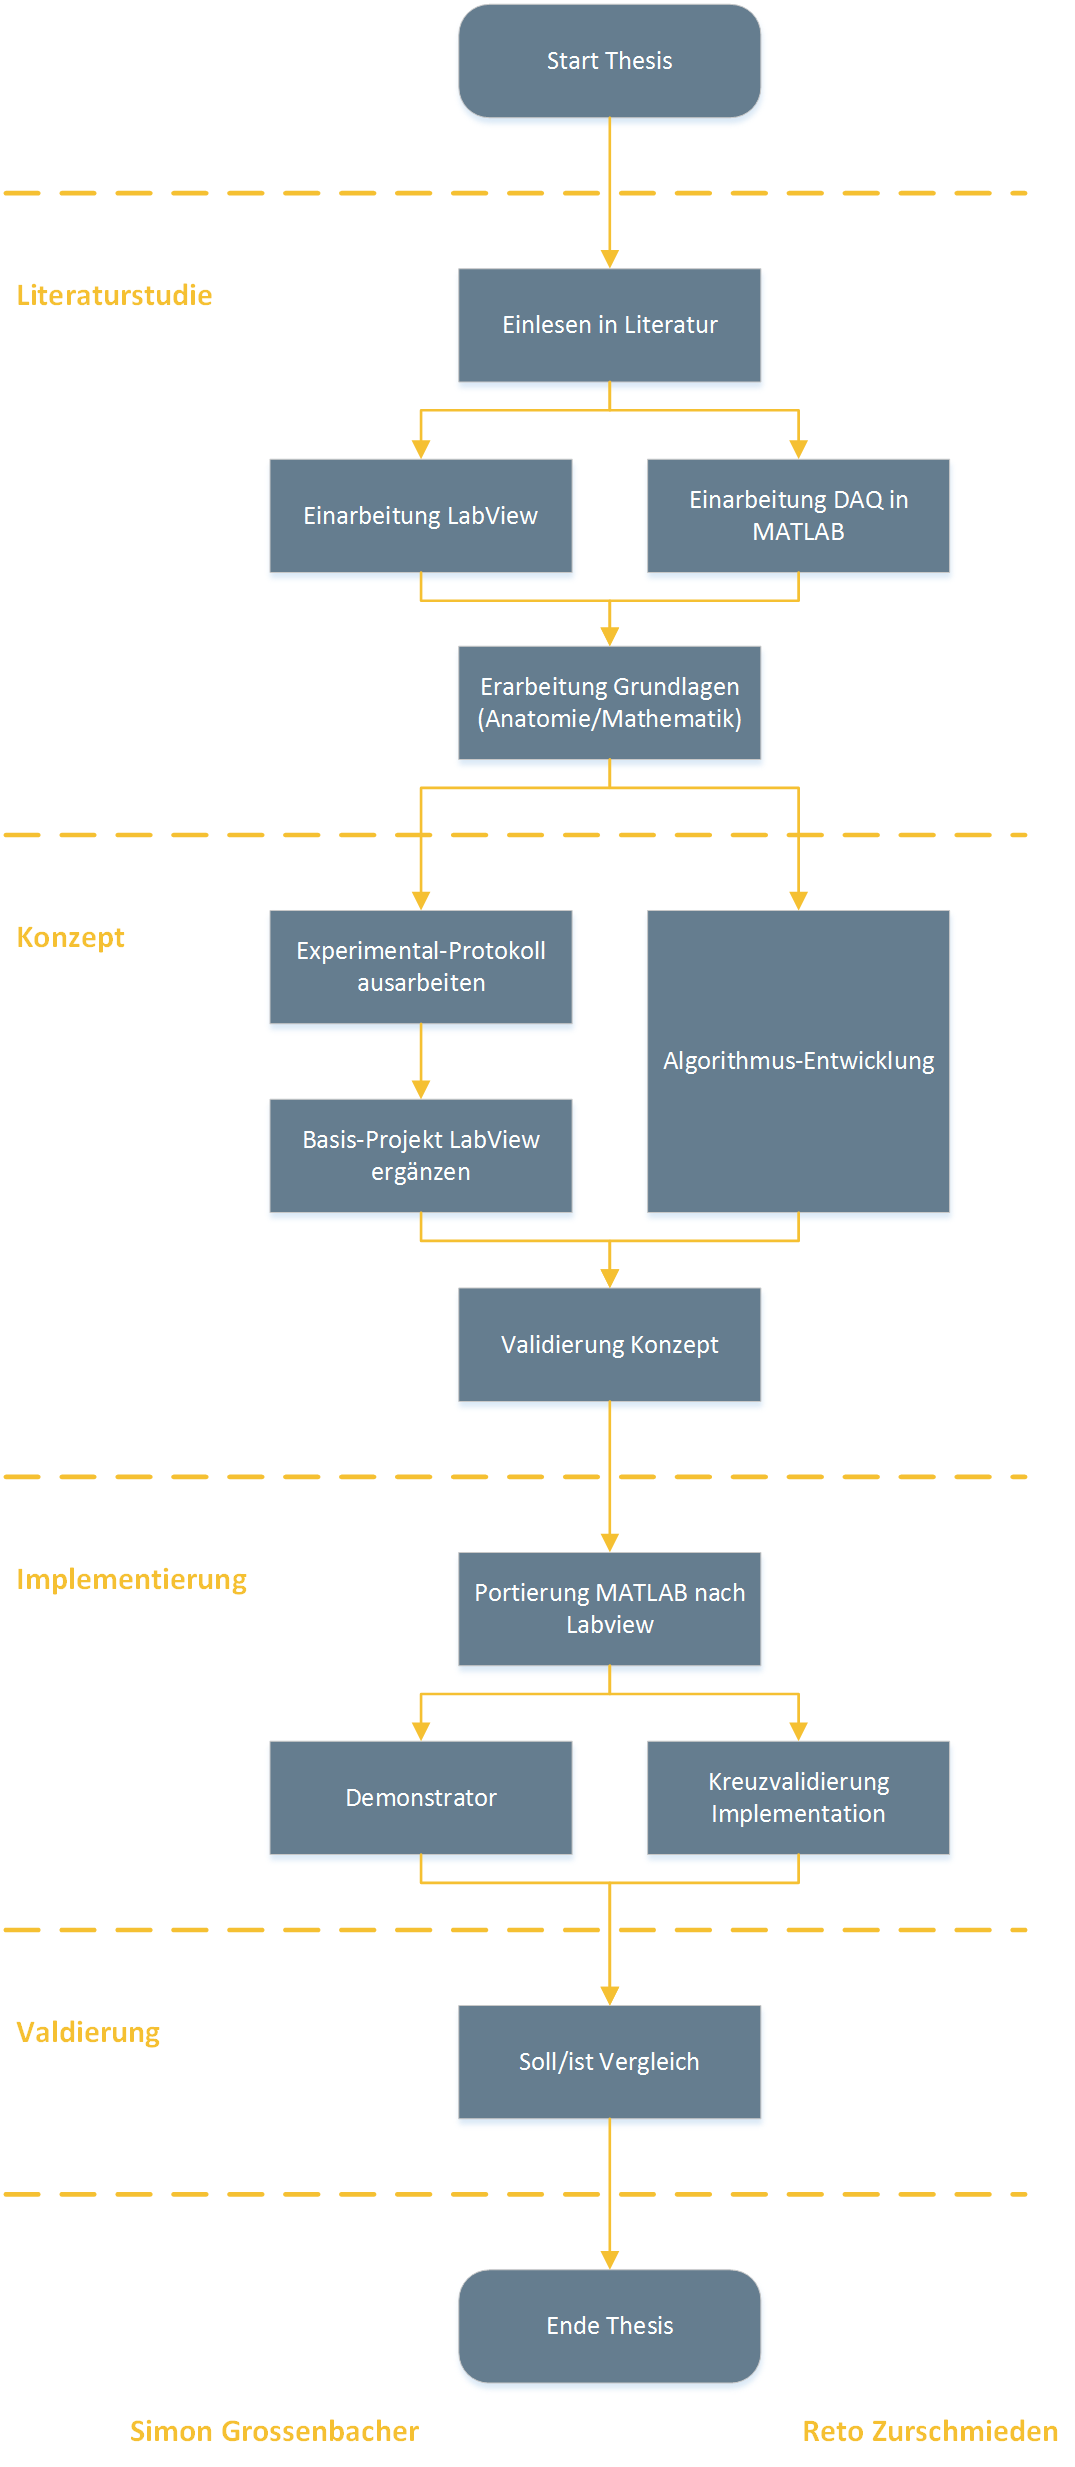
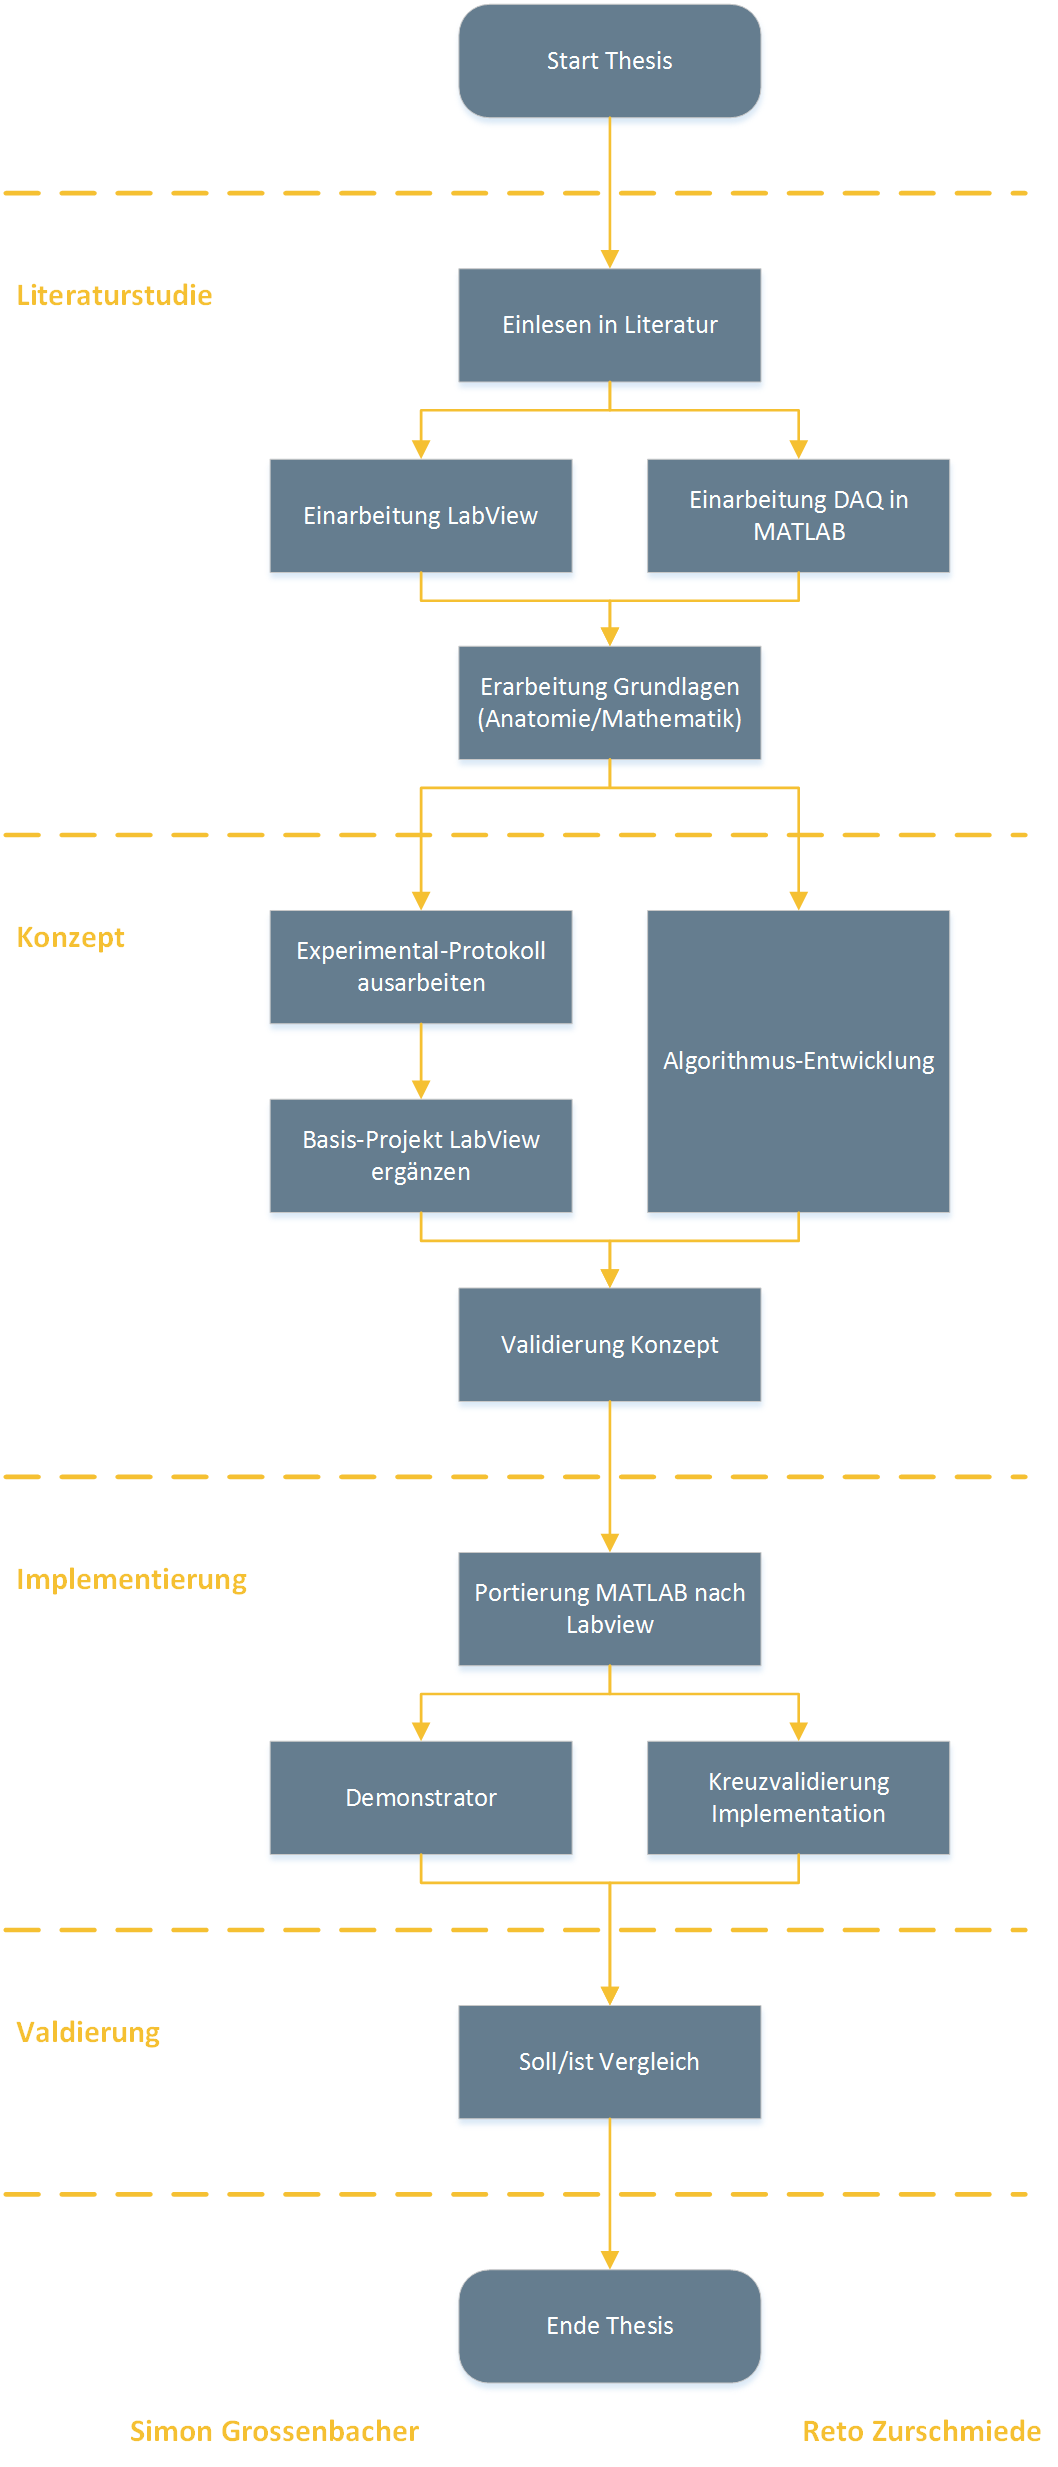
add some stuff

diff --git a/report.tex b/report.tex
@@ -21,7 +21,7 @@
 %Dokumentangaben
 \newcommand{\Titel}{Bachelorthesis}
 \newcommand{\Uebertitel}{Smart Rehabilitation bei Kreuzbandrissen}
-\newcommand{\AutorA}{Reto Zurschmieden}
+\newcommand{\AutorA}{Reto Zurschmiede}
 \newcommand{\AutorB}{Simon Grossenbacher}
 \newcommand{\DozentA}{Rolf Vetter}
 \newcommand{\DozentB}{Ivo Oesch}

diff --git a/acronyms.tex b/acronyms.tex
@@ -31,6 +31,8 @@
 \newacronym{ac:lms}{LMS}{Least Mean Square}
 \newacronym{ac:sftp}{SFTP}{Secure File Transfer Protocol}
 \newacronym{ac:iir}{IIR}{Infinite Impulse Response}
+\newacronym{ac:soc}{SoC}{System-on-a-Chip}
+\newacronym{ac:fpga}{FPGA}{Field Programmable Gate Array}
 
 
 
